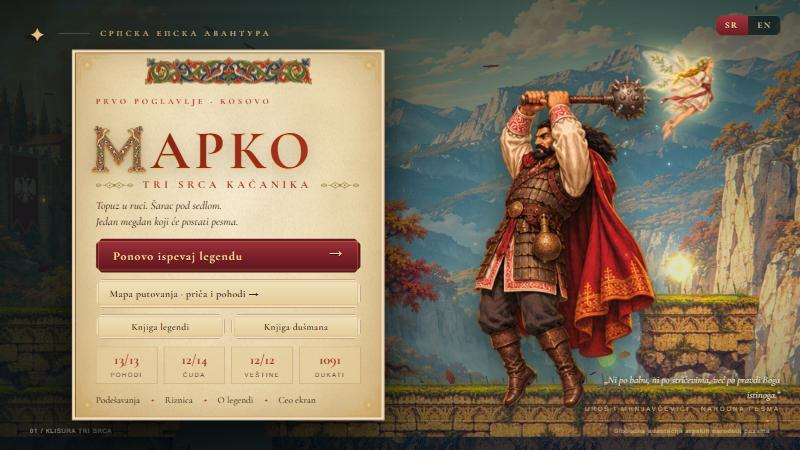
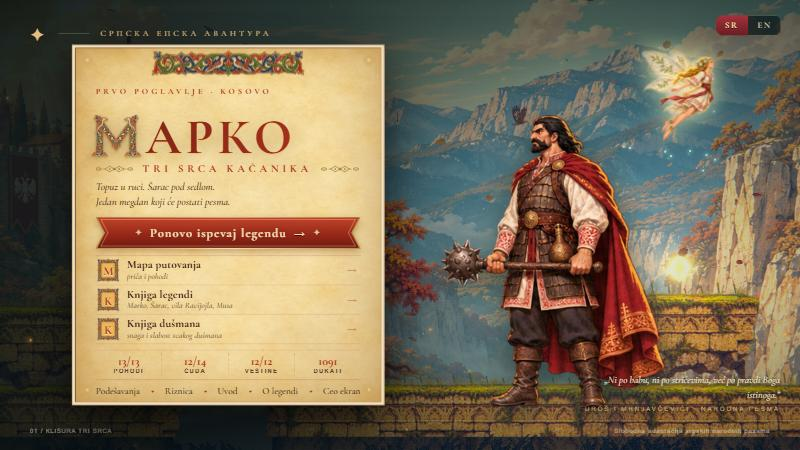
Main menu as a manuscript table of contents; an intro told with Codex's miniatures
- The main action is a cinnabar banner. The other entries are lines with an illuminated
  initial (it follows the language), the ledger is one ruled line of red figures.
- Intro: seven miniatures with a line each (Marko asleep, Musa at Kačanik, the tower by the
  sea, the sultan, the dungeon, the father's sabre, the vila at the spring), in both
  languages. Enter turns the page, Esc skips. It plays when a legend starts, and Uvod in the
  menu shows it again.

diff --git a/dist/game.js b/dist/game.js
@@ -286,9 +286,9 @@ function draw(dt=1/60){
  if(screenCtx){screenCtx.setTransform(1,0,0,1,0,0);if(assets.gorge){const drawW=W+260,drawH=drawW*1024/1536;screenCtx.drawImage(assets.gorge,-130-Math.min(1,camera/29900)*180,-80,drawW,drawH);}else{screenCtx.fillStyle='#496f6b';screenCtx.fillRect(0,0,W,H);}screenCtx.drawImage(layer,0,0,W,H);screenCtx.globalCompositeOperation='lighter';screenCtx.drawImage(glowLayer,0,0,W,H);screenCtx.globalCompositeOperation='source-over';}
 }
 function pause(){if(mode==='play'){showControls();mode='pause';$('pause-menu').hidden=false;keys.clear();}else if(mode==='pause'){hideModals();mode='play';}}
-document.addEventListener('keydown',e=>{if(['INPUT','SELECT'].includes(document.activeElement.tagName))return;if(['Space','ArrowUp','ArrowDown','ArrowLeft','ArrowRight','Tab'].includes(e.code)&&mode==='play'&&e.code!=='Tab')e.preventDefault();if(e.code==='Escape'){if(!$('knjiga').hidden){closeBook();return;}if(!$('settings').hidden){closeSettings();return;}if(mode!=='play'&&mode!=='pause'&&document.querySelector('.modal:not([hidden])')){padMenu(0,0,false,true);return;}pause();return;}if(!keys.has(e.code))pressed.add(e.code);keys.add(e.code);});document.addEventListener('keyup',e=>keys.delete(e.code));window.addEventListener('blur',()=>{keys.clear();pressed.clear();if(mode==='play')pause();});document.addEventListener('visibilitychange',()=>{if(document.hidden&&mode==='play')pause();});
+document.addEventListener('keydown',e=>{if(['INPUT','SELECT'].includes(document.activeElement.tagName))return;if(['Space','ArrowUp','ArrowDown','ArrowLeft','ArrowRight','Tab'].includes(e.code)&&mode==='play'&&e.code!=='Tab')e.preventDefault();if(e.code==='Escape'){if(!$('intro').hidden){introEnd(true);return;}if(!$('knjiga').hidden){closeBook();return;}if(!$('settings').hidden){closeSettings();return;}if(mode!=='play'&&mode!=='pause'&&document.querySelector('.modal:not([hidden])')){padMenu(0,0,false,true);return;}pause();return;}if(!keys.has(e.code))pressed.add(e.code);keys.add(e.code);});document.addEventListener('keyup',e=>keys.delete(e.code));window.addEventListener('blur',()=>{keys.clear();pressed.clear();if(mode==='play')pause();});document.addEventListener('visibilitychange',()=>{if(document.hidden&&mode==='play')pause();});
 document.querySelectorAll('[data-key]').forEach(b=>{b.addEventListener('pointerdown',e=>{e.preventDefault();b.setPointerCapture(e.pointerId);keys.add(b.dataset.key);pressed.add(b.dataset.key);});for(const ev of['pointerup','pointercancel','lostpointercapture'])b.addEventListener(ev,()=>keys.delete(b.dataset.key));});
-$('start').onclick=()=>{saveState=null;try{localStorage.removeItem('marko-save');}catch{}start();save();};$('continue').onclick=()=>start(true);$('pause').onclick=pause;$('resume').onclick=pause;$('retry').onclick=retry;$('restart-checkpoint').onclick=()=>{if(level)return startLevel(levelIndex);if(saveState)start(true);else start();};$('replay').onclick=()=>{start();save();};
+$('start').onclick=()=>playIntro(()=>{saveState=null;try{localStorage.removeItem('marko-save');}catch{}start();save();});$('continue').onclick=()=>start(true);$('pause').onclick=pause;$('resume').onclick=pause;$('retry').onclick=retry;$('restart-checkpoint').onclick=()=>{if(level)return startLevel(levelIndex);if(saveState)start(true);else start();};$('replay').onclick=()=>{start();save();};
 function mainMenu(){menuLedger();level=null;levelIndex=-1;stage?.setLevel?.(null);endSequence=null;corpses=[];mode='menu';hideModals();$('menu').hidden=false;$('hud').hidden=true;$('controls').hidden=true;$('touch').hidden=true;$('dialogue').hidden=true;$('boss-hud').hidden=true;zone=0;camera=0;keys.clear();}
 $('quit').onclick=mainMenu;$('victory-menu').onclick=mainMenu;$('sound').onclick=()=>{initAudio();audioEnabled=!audioEnabled;$('sound').textContent=audioEnabled?'♫':'♪̸';$('sound').setAttribute('aria-label',audioEnabled?'Isključi zvuk':'Uključi zvuk');};
 let settingsFrom='menu';function openSettings(from){settingsFrom=from;$('settings').hidden=false;}function closeSettings(){settings.difficulty=$('difficulty').value;readAudioSettings();settings.quality=$('quality').value;settings.reduced=$('reduced').checked;settings.gore=$('gore').checked;try{localStorage.setItem('marko-settings',JSON.stringify(settings));}catch{}$('settings').hidden=true;}
@@ -1407,13 +1407,17 @@ function menuButtons(){const c=$('continue'),s=$('start');if(!c||!s||!hasDom)ret
  c.hidden=!(story||i>=0);
  if(story){c.innerHTML='Nastavi legendu <span>→</span>';c.onclick=()=>start(true);}
  else if(i>=0){c.innerHTML=`Nastavi pohod <span>→</span><small>Pohod ${i+1} · ${LEVELS[i].name}</small>`;c.onclick=()=>startLevel(i);}
- c.className=c.hidden?'secondary':'primary';s.className=c.hidden?'primary':'secondary';
- s.innerHTML=c.hidden?(won?'Ponovo ispevaj legendu <span>→</span>':'Započni legendu <span>→</span>'):(story?'Nova legenda':'Ponovo ispevaj legendu');}
+ c.className=c.hidden?'secondary':'primary';s.className=c.hidden?'primary':'ms-item';
+ s.innerHTML=c.hidden?(won?'Ponovo ispevaj legendu <span>→</span>':'Započni legendu <span>→</span>'):`<span class="lbl">${story?'Nova legenda':'Ponovo ispevaj legendu'}</span><small>priča od početka</small>`;
+ if(!c.hidden)$('menu-pohodi')?.before?.(s);else c.after?.(s);setTimeout(menuInitials,0);}
+// each line of the menu opens with an illuminated initial: the first letter of its label, in either language
+function menuInitials(){document.querySelectorAll?.('#menu .ms-item').forEach(b=>{b.dataset.ini=(b.querySelector('.lbl')?.textContent||'').trim().charAt(0);});}
 function fairyDust(){const box=document.querySelector?.('#menu .fairy-dust');if(!box||box.childElementCount)return;let html='';for(let i=0;i<18;i++){const d=3+Math.random()*4;html+=`<i style="left:${Math.random()*100}%;top:${Math.random()*40}%;animation-duration:${d}s;animation-delay:${-Math.random()*d}s;--dx:${-20-Math.random()*60}px"></i>`;}box.innerHTML=html;}
 if(hasDom){
  $('menu-riznica')&&($('menu-riznica').onclick=openRiznica);$('menu-knjiga')&&($('menu-knjiga').onclick=()=>openBook());$('pause-knjiga')&&($('pause-knjiga').onclick=()=>openBook());
  // arrows (or W/S) move between buttons in any menu, Enter presses; in the book, left and right turn the page
  document.addEventListener('keydown',e=>{if(mode==='play')return;const tag=document.activeElement?.tagName;if(tag==='INPUT'||tag==='SELECT')return;
+  if(!$('intro').hidden){if(['Enter','Space','ArrowRight','KeyD'].includes(e.code)){e.preventDefault();introNext();}return;}
   if(!$('knjiga').hidden&&['ArrowLeft','ArrowRight','KeyA','KeyD'].includes(e.code)){e.preventDefault();bookGo(bookAt+(e.code==='ArrowLeft'||e.code==='KeyA'?-1:1));return;}
   if(['ArrowUp','ArrowDown','KeyW','KeyS'].includes(e.code)){e.preventDefault();padMenu(0,e.code==='ArrowUp'||e.code==='KeyW'?-1:1,false,false);return;}
   if(e.code==='Enter'&&document.activeElement?.tagName!=='BUTTON'){e.preventDefault();padMenu(0,0,true,false);}});
@@ -1574,3 +1578,38 @@ function flowPose(){const once=(name,t,T)=>{const n=rig[name].frames.length;retu
  if(p.recoverT>0&&Math.abs(p.vx)<80&&rig?.['marko-combo-recover'])return once('marko-combo-recover',p.recoverT,RECOVER_TIME);
  if(p.stopT>0&&Math.abs(p.vx)<150&&!p.blocking&&!p.crouching&&rig?.['marko-run-stop'])return once('marko-run-stop',p.stopT,STOP_TIME);
  return null;}
+
+// ================= the intro: Codex's miniatures tell how the song of Kačanik begins =================
+// Seven pictures, each with a line in the manner of the songs; Enter (or a click) turns to the next, Esc skips.
+// If the local voice model has read them (assets/voice/uvod-<sr|en>-N.mp3), each picture waits for its line.
+const INTRO=[
+ {img:'spava',eyebrow:'Kaže pesma…',text:'Kažu da Kraljević Marko nije umro. Spava u pećini, Šarac kraj njega jede mahovinu, a sablja mu se malo-pomalo izvlači iz stene.',kb:'50% 70%'},
+ {img:'pesma',eyebrow:'Klisura Kačanika',text:'U to vreme Musa Kesedžija zatvori drumove i primorje. Topuz baca u oblake i dočekuje ga u bele ruke, a klisurom niko ne sme da prođe.',kb:'30% 40%'},
+ {img:'svadbarina',eyebrow:'Kula kraj mora',text:'Na obali podiže kulu sa gvozdenim čengelama. Otima carevo blago, a putnike drži u ropstvu.',kb:'70% 40%'},
+ {img:'ramazan',eyebrow:'Pred sultanom',text:'Kad caru dodijaše tužbe, iz tamnice izvede jedinog junaka koga se Musa ne bi uplašio — Kraljevića Marka.',kb:'40% 50%'},
+ {img:'soko',eyebrow:'Tri godine tamnice',text:'Tri godine tamnice slomile su mu snagu. Vraćala mu se polako, kao ranjeniku pod sokolovim krilom.',kb:'60% 30%'},
+ {img:'sablja',eyebrow:'Bez vojske',text:'Car mu nudi vojsku i blago. Marko uzima samo Šarca, topuz i očevu sablju.',kb:'50% 40%'},
+ {img:'smrt',eyebrow:'Vila Ravijojla',text:'Na izvoru pod planinom javi mu se posestrima, vila Ravijojla: „Idi, brate. Ja ću biti uz tebe.” Tako počinje pesma o tri srca Kačanika.',kb:'50% 20%'},
+];
+let introAt=-1,introDone=null,introTimer=0,introVoice=null;
+function playIntro(done){if(!hasDom||settings.introOff){done?.();return;}introDone=done||null;introAt=-1;const el=$('intro');el.hidden=false;el.classList.remove('out');
+ $('intro').querySelector('.intro-dots').innerHTML=INTRO.map(()=>'<i></i>').join('');sfx('horn_call',{gain:.5});introNext();$('intro-next')?.focus?.();}
+function introNext(){clearTimeout(introTimer);introVoice?.pause();introAt++;if(introAt>=INTRO.length){introEnd(false);return;}
+ const s=INTRO[introAt],el=$('intro'),img=el.querySelector('.intro-pic img'),src=`assets/ui/minijature/minijatura-${s.img}.webp`;
+ el.querySelector('.intro-bg').style.backgroundImage=`url(${src})`;img.style.transformOrigin=s.kb;img.src=src;
+ el.querySelector('.intro-eyebrow').textContent=s.eyebrow;el.querySelector('.intro-text').textContent=s.text;
+ el.querySelectorAll('.intro-dots i').forEach((d,k)=>d.classList.toggle('on',k===introAt));
+ const stage=el.querySelector('.intro-stage');stage.classList.remove('show');void stage.offsetWidth;stage.classList.add('show');
+ if(introAt)sfx('cloth',{gain:.4,rate:1.4});
+ // with a recorded line the picture waits for it; otherwise it waits as long as reading takes
+ const lang=uiLang(),wait=Math.max(6,s.text.split(/\s+/).length*.42);introVoice=null;
+ const a=new Audio(`assets/voice/uvod-${lang}-${introAt+1}.mp3`);a.volume=audioEnabled?Math.min(1,(settings.voice??.9)*1.05):0;
+ a.addEventListener('canplaythrough',()=>{if(introVoice!==a)return;clearTimeout(introTimer);a.play().catch(()=>{});a.onended=()=>{if(introVoice===a)introTimer=setTimeout(introNext,1300);};},{once:true});
+ a.addEventListener('error',()=>{},{once:true});introVoice=a;a.load();
+ introTimer=setTimeout(()=>{if(introVoice===a&&!a.paused)return;introNext();},wait*1000+(a.readyState?0:600));}
+function introEnd(skipped){clearTimeout(introTimer);introVoice?.pause();introVoice=null;const el=$('intro');el.classList.add('out');setTimeout(()=>{el.hidden=true;el.classList.remove('out');},450);
+ const d=introDone;introDone=null;introAt=-1;if(d)d();else $('start')?.focus?.();}
+if(hasDom){$('intro-next')&&($('intro-next').onclick=introNext);$('intro-skip')&&($('intro-skip').onclick=()=>introEnd(true));
+ $('intro').addEventListener('click',e=>{if(e.target.closest('button'))return;introNext();});
+ $('intro-open')&&($('intro-open').onclick=()=>playIntro(null));
+ globalThis.markoI18n?.onLang?.(()=>setTimeout(menuInitials,0));}

diff --git a/dist/index.html b/dist/index.html
@@ -17,7 +17,7 @@
  <section id="menu" class="overlay"><div class="embers"></div><div class="fairy-dust"></div>
   <div class="lang-pick" role="group" aria-label="Jezik / Language" data-notr><button data-lang="sr" lang="sr-Latn">SR</button><button data-lang="en" lang="en">EN</button></div>
   <div class="menu-decoration"><span>✦</span><div></div><span>СРПСКА ЕПСКА АВАНТУРА</span></div>
-  <div class="menu-copy"><p class="eyebrow">PRVO POGLAVLJE · KOSOVO</p><h1><span class="ini" aria-hidden="true">М</span><span class="rest" aria-hidden="true">АРКО</span><span class="sr-only">МАРКО</span></h1><div class="subtitle"><span></span> TRI SRCA KAČANIKA <span></span></div><p class="intro">Topuz u ruci. Šarac pod sedlom.<br>Jedan megdan koji će postati pesma.</p><div class="menu-actions"><button id="continue" class="secondary" hidden>Nastavi od poslednjeg barjaka</button><button id="start" class="primary">Započni legendu <span>→</span></button><button id="menu-pohodi" class="secondary">Mapa putovanja · priča i pohodi →</button><div class="menu-pair"><button id="menu-legende" class="secondary">Knjiga legendi</button><button id="menu-knjiga" class="secondary">Knjiga dušmana</button></div></div><div id="menu-ledger"></div><div class="menu-links"><button id="settings-open">Podešavanja</button><i>✦</i><button id="menu-riznica">Riznica</button><i>✦</i><button id="lore-open">O legendi</button><i>✦</i><button id="fullscreen-menu">Ceo ekran</button></div><p class="menu-note">2D AKCIONA AVANTURA <b>·</b> TASTATURA ILI DODIR</p></div>
+  <div class="menu-copy"><p class="eyebrow">PRVO POGLAVLJE · KOSOVO</p><h1><span class="ini" aria-hidden="true">М</span><span class="rest" aria-hidden="true">АРКО</span><span class="sr-only">МАРКО</span></h1><div class="subtitle"><span></span> TRI SRCA KAČANIKA <span></span></div><p class="intro">Topuz u ruci. Šarac pod sedlom.<br>Jedan megdan koji će postati pesma.</p><div class="menu-actions"><button id="continue" class="secondary" hidden>Nastavi od poslednjeg barjaka</button><button id="start" class="primary">Započni legendu <span>→</span></button><div class="ms-list"><button id="menu-pohodi" class="ms-item"><span class="lbl">Mapa putovanja</span><small>priča i pohodi</small></button><button id="menu-legende" class="ms-item"><span class="lbl">Knjiga legendi</span><small>Marko, Šarac, vila Ravijojla, Musa</small></button><button id="menu-knjiga" class="ms-item"><span class="lbl">Knjiga dušmana</span><small>snaga i slabost svakog dušmana</small></button></div></div><div id="menu-ledger"></div><div class="menu-links"><button id="settings-open">Podešavanja</button><i>✦</i><button id="menu-riznica">Riznica</button><i>✦</i><button id="intro-open">Uvod</button><i>✦</i><button id="lore-open">O legendi</button><i>✦</i><button id="fullscreen-menu">Ceo ekran</button></div><p class="menu-note">2D AKCIONA AVANTURA <b>·</b> TASTATURA ILI DODIR</p></div>
   <img class="menu-marko" src="assets/cast/marko.png" alt="Kraljević Marko sa bodljikavim topuzom"><img class="menu-fairy" src="assets/cast/fairy.png" alt="Vila Ravijojla"><p class="quote">„Ni po babu, ni po stričevima, već po pravdi Boga istinoga.”<small>UROŠ I MRNJAVČEVIĆI · NARODNA PESMA</small></p><div class="menu-bottom"><span>01 / KLISURA TRI SRCA</span><span>Slobodna adaptacija srpskih narodnih pesama</span></div>
  </section>
  <section id="pause-menu" class="modal" hidden><div class="modal-card"><p class="eyebrow">PREDAH POD BARJAKOM</p><h2>Legenda čeka.</h2><p>Napredak se čuva kod crvenih barjaka.</p><button id="resume" class="primary">Nastavi megdan →</button><button id="restart-checkpoint" class="secondary">Vrati se do barjaka</button><button id="pause-knjiga" class="secondary">Knjiga dušmana</button><button id="pause-legende" class="secondary">Knjiga legendi</button><button id="pause-settings" class="secondary">Podešavanja</button><button id="quit" class="text-button">Glavni meni</button></div></section>
@@ -25,7 +25,7 @@
  <section id="lore" class="modal" hidden><div class="modal-card lore"><p class="eyebrow">IZ PESME U IGRU</p><h2>Junak između istorije i legende</h2><p>U ovoj slobodnoj epskoj priči osmanski odred zatvara klisuru i zarobljava putnike. Marko, Šarac i Ravijojla oslobađaju drum. Na kraju ih čeka Musa, odmetnuti gospodar prolaza.</p><p>Istorijski Marko Mrnjavčević bio je osmanski vazal. Igra spaja motive narodnih pesama, a nije rekonstrukcija istorijskog događaja. Musina tri srca, Šarčeva snaga i vilinska pomoć pripadaju epskom svetu.</p><p>Crveni barjaci sa belim dvoglavim orlom stilizovani su srednjovekovni motivi. Ravijojlin mali krilati lik i čarobni mostovi autorska su interpretacija.</p><p class="small">Izvori: <a href="https://sr.wikisource.org/sr-el/Марко_Краљевић_и_Муса_кесеџија" target="_blank" rel="noopener">Marko i Musa</a> · <a href="https://sr.wikisource.org/sr-el/Марко_Краљевић_и_вила" target="_blank" rel="noopener">Marko i vila</a> · <a href="https://www.enciklopedija.hr/clanak/kraljevic-marko" target="_blank" rel="noopener">Istorijski Marko</a></p><button id="lore-close" class="primary">Vrati se legendi</button></div></section>
  <section id="death" class="modal" hidden><div class="modal-card"><p class="eyebrow">NIJE KRAJ PESME</p><h2>Ustani, junače.</h2><p>Ravijojla te vraća do poslednjeg barjaka.</p><button id="retry" class="primary">Pokušaj ponovo →</button></div></section>
  <section id="victory" class="modal" hidden><div class="modal-card"><p class="eyebrow">PRVO POGLAVLJE ZAVRŠENO</p><h2>Drum je slobodan.</h2><p>Tri srca su utihnula. Marko spušta topuz.<br>„Teško onom ko ne poštuje dostojnog suparnika.“</p><div id="stats"></div><button id="replay" class="primary">Ponovo ispevaj legendu →</button><button id="victory-next" class="secondary">Sledeći pohod: Kosovsko selo →</button><button id="victory-menu" class="text-button">Glavni meni</button></div></section>
- <section id="levels" class="modal" hidden><div class="modal-card lore"><p class="eyebrow">MARKOVO PUTOVANJE</p><h2>Mapa</h2><div id="level-variants" class="variant-pick" role="group" aria-label="Deo puta i doba"></div><p id="levels-order" class="order-note"></p><div id="level-list" class="level-list"></div><button id="riznica-open" class="secondary">Riznica čuda i kovač</button><button id="levels-close" class="text-button">Nazad</button></div></section><section id="riznica" class="modal" hidden><div class="modal-card lore"><p class="eyebrow">MARKOVA RIZNICA</p><h2>Čuda iz pesama</h2><p>U svakom pohodu skriveno je jedno čudo, najčešće visoko: na kuli, u dimnjaku između zidova ili na daskama iznad puta. Svako čudo zauvek jača Marka.</p><div id="cuda-grid" class="cuda-grid"></div><h3>Srce i zapisi</h3><p id="srca">Delovi srca: 0</p><div id="zapisi" class="vestine"></div><h3>Veštine</h3><div id="vestine" class="vestine"></div><h3>Kombinacije</h3><div id="kombinacije" class="kombinacije"></div><h3>Knjiga dušmana</h3><div id="dusmani" class="dusmani-row"></div><h3>Kovač</h3><p id="purse">Dukati: 0</p><div id="smith" class="smith"></div><button id="riznica-close" class="text-button">Nazad</button></div></section><section id="level-done" class="modal" hidden><div class="modal-card"><p class="eyebrow">POHOD ZAVRŠEN</p><h2 id="level-done-title"></h2><div id="level-stars"></div><div id="level-skill" class="skill-card" hidden></div><div id="level-stats"></div><button id="level-next" class="primary">Sledeći pohod →</button><button id="level-replay" class="secondary">Ponovi pohod</button><button id="level-menu" class="text-button">Glavni meni</button></div></section><section id="knjiga" class="modal" hidden><div class="book-wrap">
+ <section id="levels" class="modal" hidden><div class="modal-card lore"><p class="eyebrow">MARKOVO PUTOVANJE</p><h2>Mapa</h2><div id="level-variants" class="variant-pick" role="group" aria-label="Deo puta i doba"></div><p id="levels-order" class="order-note"></p><div id="level-list" class="level-list"></div><button id="riznica-open" class="secondary">Riznica čuda i kovač</button><button id="levels-close" class="text-button">Nazad</button></div></section><section id="riznica" class="modal" hidden><div class="modal-card lore"><p class="eyebrow">MARKOVA RIZNICA</p><h2>Čuda iz pesama</h2><p>U svakom pohodu skriveno je jedno čudo, najčešće visoko: na kuli, u dimnjaku između zidova ili na daskama iznad puta. Svako čudo zauvek jača Marka.</p><div id="cuda-grid" class="cuda-grid"></div><h3>Srce i zapisi</h3><p id="srca">Delovi srca: 0</p><div id="zapisi" class="vestine"></div><h3>Veštine</h3><div id="vestine" class="vestine"></div><h3>Kombinacije</h3><div id="kombinacije" class="kombinacije"></div><h3>Knjiga dušmana</h3><div id="dusmani" class="dusmani-row"></div><h3>Kovač</h3><p id="purse">Dukati: 0</p><div id="smith" class="smith"></div><button id="riznica-close" class="text-button">Nazad</button></div></section><section id="level-done" class="modal" hidden><div class="modal-card"><p class="eyebrow">POHOD ZAVRŠEN</p><h2 id="level-done-title"></h2><div id="level-stars"></div><div id="level-skill" class="skill-card" hidden></div><div id="level-stats"></div><button id="level-next" class="primary">Sledeći pohod →</button><button id="level-replay" class="secondary">Ponovi pohod</button><button id="level-menu" class="text-button">Glavni meni</button></div></section><section id="intro" hidden aria-live="polite"><div class="intro-bg"></div><div class="intro-stage"><figure class="intro-pic"><img alt=""></figure><div class="intro-card"><div class="zastavica" aria-hidden="true"></div><p class="intro-eyebrow"></p><p class="intro-text"></p></div></div><div class="intro-foot"><span class="intro-dots"></span><button id="intro-next" class="text-button">Dalje · Enter</button><button id="intro-skip" class="text-button">Preskoči uvod · Esc</button></div></section><section id="knjiga" class="modal" hidden><div class="book-wrap">
   <div class="book" id="book"><div class="page left" id="book-left"></div><div class="page right" id="book-right"></div><div class="spine"></div></div>
   <nav class="book-nav"><button id="book-prev" class="book-arrow" aria-label="Prethodna stranica">‹</button><div id="book-tabs" class="book-tabs"></div><button id="book-next" class="book-arrow" aria-label="Sledeća stranica">›</button></nav>
   <button id="book-close" class="text-button">Zatvori knjigu</button></div></section><div id="loading">Pripremamo legendu…</div>

diff --git a/dist/ui.css b/dist/ui.css
@@ -375,3 +375,76 @@
 .ms-birds img{width:74px;height:74px;object-fit:contain;filter:drop-shadow(0 1px 1px #5a3a1a55)}
 #menu-legende::before,#menu-knjiga::before{content:"";display:inline-block;width:20px;height:25px;margin:-8px 8px -6px 0;vertical-align:middle;background:url(assets/ui/rukopis-inicijal-k.webp) center/contain no-repeat}
 .book-tabs .tab.pic.song img{object-fit:contain;padding:6px}
+
+/* ================= main menu, second pass: a banner for the main action, a table of contents for the rest ================= */
+#menu .menu-actions .primary{position:relative;display:flex;align-items:center;justify-content:center;gap:12px;width:100%;margin:2px 0 0;padding:15px 34px 14px;border:0;clip-path:none;box-shadow:none;text-align:center;
+ background:url(assets/ui/barjak.svg) center/100% 100% no-repeat;color:#fbe7b5;font:700 20px/1.15 var(--display);letter-spacing:1.6px;text-shadow:0 1px 0 #4a0e08,0 0 10px #0004;filter:drop-shadow(0 4px 6px #5a1a0a55);transition:transform .25s,filter .25s}
+#menu .menu-actions .primary::before,#menu .menu-actions .primary::after{content:"✦";position:static;inset:auto;background:none;transform:none;animation:none;font-size:12px;color:#f3dca0;opacity:.85}
+#menu .menu-actions .primary span{float:none;margin:0;font-size:18px;line-height:1;color:#f3dca0;transition:transform .25s}
+#menu .menu-actions .primary small{display:block;width:100%;margin-top:2px;font:italic 600 14px var(--display);letter-spacing:.4px;color:#f6dca8;opacity:.95}
+#menu .menu-actions #continue.primary{flex-wrap:wrap;row-gap:0;padding:12px 34px 11px}
+#menu .menu-actions .primary:hover,#menu .menu-actions .primary:focus-visible,#menu .menu-actions .primary.pad-focus{transform:translateY(-1px) scale(1.012);filter:drop-shadow(0 6px 12px #5a1a0a77) brightness(1.1);outline:none}
+#menu .menu-actions .primary:hover span,#menu .menu-actions .primary:focus-visible span{transform:translateX(4px)}
+.ms-list{display:flex;flex-direction:column;margin:12px 0 0;border-top:1px solid #a8321f40}
+#menu .ms-item{position:relative;display:grid;grid-template-columns:42px 1fr 18px;grid-template-rows:auto auto;column-gap:12px;align-items:center;width:100%;min-width:0;margin:0;padding:7px 4px 7px 2px;
+ background:none;border:0;border-bottom:1px solid #a8321f2e;border-radius:0;box-shadow:none;clip-path:none;text-align:left;color:var(--ms-ink);transition:background .25s}
+#menu .ms-item::before{content:attr(data-ini);grid-row:1/3;grid-column:1;display:grid;place-items:center;width:42px;height:42px;padding-top:2px;
+ background:url(assets/ui/rukopis-okvir-inicijala.webp) center/100% 100% no-repeat;font:700 22px/1 var(--display);color:var(--cinnabar);text-shadow:0 1px 0 #f3dca0;transition:transform .3s}
+#menu .ms-item::after{content:"→";grid-row:1/3;grid-column:3;color:var(--cinnabar);font-size:16px;opacity:.35;transition:opacity .25s,transform .25s}
+#menu .ms-item .lbl{grid-column:2;font:700 18.5px/1.15 var(--display);color:#3a1a10;letter-spacing:.3px}
+#menu .ms-item small{grid-column:2;font:italic 500 14px/1.25 var(--display);color:#6a4a2a;white-space:nowrap;overflow:hidden;text-overflow:ellipsis}
+#menu .ms-item:hover,#menu .ms-item:focus-visible,#menu .ms-item.pad-focus{background:linear-gradient(90deg,#c8a24a33,#c8a24a10 70%,#0000);outline:none;transform:none}
+#menu .ms-item:hover::before,#menu .ms-item:focus-visible::before,#menu .ms-item.pad-focus::before{transform:rotate(-4deg) scale(1.08)}
+#menu .ms-item:hover::after,#menu .ms-item:focus-visible::after,#menu .ms-item.pad-focus::after{opacity:1;transform:translateX(3px)}
+#menu .ms-item:hover .lbl,#menu .ms-item:focus-visible .lbl,#menu .ms-item.pad-focus .lbl{color:var(--cinnabar)}
+#menu-legende::before,#menu-knjiga::before{margin:0}
+/* the ledger: one ruled line of red figures */
+#menu-ledger{display:flex;gap:0;margin:12px 0 0;padding:5px 0;border-top:1px solid #a8321f40;border-bottom:1px solid #a8321f40}
+#menu-ledger button{flex:1;display:flex;flex-direction:column;align-items:center;background:none!important;box-shadow:none!important;border:0;border-left:1px dotted #a8321f40;padding:2px 2px;transform:none!important}
+#menu-ledger button:first-child{border-left:0}
+#menu-ledger button b{font:700 19px/1.1 var(--display);color:var(--cinnabar)}
+#menu-ledger button small{font:600 9.5px Arial;letter-spacing:1.8px;color:#5a4030}
+#menu-ledger button:hover b,#menu-ledger button:focus-visible b{text-decoration:underline;text-decoration-color:#a8321f66}
+#menu .menu-links{margin:12px 0 2px}
+
+/* ================= the intro ================= */
+#intro{position:absolute;inset:0;z-index:30;display:grid;grid-template-rows:1fr auto;background:#070605;overflow:hidden;opacity:1;transition:opacity .45s}
+#intro.out{opacity:0}
+#intro .intro-bg{position:absolute;inset:-60px;background:#000 center/cover;filter:blur(28px) brightness(.32) saturate(1.2);transition:background-image .6s}
+#intro .intro-stage{position:relative;display:grid;grid-template-columns:auto minmax(280px,440px);align-items:center;justify-content:center;gap:clamp(20px,4vw,56px);padding:clamp(16px,4vh,48px) 24px 0}
+#intro .intro-pic{margin:0;width:min(62vh,560px,48vw);aspect-ratio:1;padding:2.8%;background:url(assets/ui/rukopis-okvir-inicijala.webp) center/100% 100% no-repeat;filter:drop-shadow(0 20px 40px #000c)}
+#intro .intro-pic img{display:block;width:100%;height:100%;object-fit:cover;padding:7.5%;transform-origin:50% 50%}
+#intro .intro-card{position:relative;padding:20px 28px 24px;background:radial-gradient(ellipse at 50% 40%,#0000 50%,#7a4a1a40 100%),url(assets/ui/rukopis-pergament.webp) center/cover;box-shadow:0 20px 50px #000b,inset 0 0 0 1px #6a3a1a66,inset 0 0 0 5px #f1e2bd,inset 0 0 0 6px #a8321f55;color:var(--ms-ink)}
+#intro .intro-card .zastavica{height:40px;margin:-6px 0 6px}
+#intro .intro-eyebrow{margin:0 0 8px;text-align:center;font:700 12px Arial;letter-spacing:3px;text-transform:uppercase;color:var(--cinnabar)}
+#intro .intro-text{margin:0;font:500 clamp(18px,2.1vw,23px)/1.5 var(--display);color:var(--ms-ink)}
+#intro .intro-text::first-letter{float:left;font:700 50px/1 var(--display);color:var(--cinnabar);padding:.22em .3em .12em;margin:4px 10px 0 0;background:url(assets/ui/rukopis-okvir-inicijala.webp) center/100% 100% no-repeat}
+#intro .intro-stage.show .intro-pic img{animation:kenBurns 11s ease-out both}
+#intro .intro-stage.show .intro-pic{animation:picIn .9s cubic-bezier(.2,.8,.2,1) both}
+#intro .intro-stage.show .intro-card{animation:cardIn 1s .25s cubic-bezier(.2,.8,.2,1) both}
+@keyframes kenBurns{from{transform:scale(1)}to{transform:scale(1.14)}}
+@keyframes picIn{from{opacity:0;transform:scale(.96)}}
+@keyframes cardIn{from{opacity:0;transform:translateY(16px)}}
+#intro .intro-foot{position:relative;display:flex;align-items:center;justify-content:center;gap:28px;padding:14px 20px 22px}
+#intro .intro-dots{display:flex;gap:8px}
+#intro .intro-dots i{width:8px;height:8px;border-radius:50%;background:#f3dca033;box-shadow:inset 0 0 0 1px #f3dca088;transition:background .3s,transform .3s}
+#intro .intro-dots i.on{background:#e7c46a;transform:scale(1.3)}
+#intro .text-button{color:#e9d7ad!important}
+@media(max-width:820px){#intro .intro-stage{grid-template-columns:1fr;justify-items:center;gap:14px}#intro .intro-pic{width:min(44vh,82vw)}#intro .intro-card{max-width:560px}}
+@media(prefers-reduced-motion:reduce){#intro .intro-stage.show .intro-pic img{animation:none}}
+/* the panel fits a 720p screen with the table of contents */
+#menu .menu-copy{top:50%;padding-top:54px!important;padding-bottom:14px}
+#menu .menu-copy::before{top:9px;height:42px}
+#menu .menu-copy h1{--hs:80px;font-size:80px;margin:0 0 2px}
+#menu .intro{font-size:17px;margin:6px 0 10px}
+#menu .ms-item{grid-template-columns:36px 1fr 18px;padding:4px 4px 4px 2px}
+#menu .ms-item::before{width:36px;height:36px;font-size:19px}
+#menu .ms-item .lbl{font-size:18px}
+#menu .ms-item small{font-size:13.5px}
+.ms-list{margin-top:10px}
+#menu-ledger{margin-top:9px}
+#menu .menu-links{margin:9px 0 0}
+@media(max-height:690px){#menu .menu-copy h1{--hs:70px;font-size:70px}#menu .ms-item small{display:none}}
+#intro .intro-pic{width:min(70vh,620px,52vw);padding:0}
+#intro .intro-pic img{padding:0;margin:16.5%;width:67%;height:67%;box-shadow:0 0 0 1px #3a1a0a88}
+#intro .intro-foot>*{flex:none;width:auto!important;margin:0!important}

diff --git a/dist/i18n.js b/dist/i18n.js
@@ -409,6 +409,16 @@ const EN_PAIRS=[
 ["Dušmani koje je Marko sreo na drumu: snaga, slabost i broj savladanih.","The foes Marko has met on the road: their strength, their weakness and how many he has defeated."],
 ["Otvori knjigu dušmana","Open the Book of Foes"],
 ["Nijedan","None"],
+["priča od početka","the story from the start"],["Marko, Šarac, vila Ravijojla, Musa","Marko, Šarac, the vila Ravijojla, Musa"],["snaga i slabost svakog dušmana","the strength and weakness of every foe"],
+["Uvod","Intro"],["Dalje · Enter","Next · Enter"],["Preskoči uvod · Esc","Skip the intro · Esc"],
+["Kaže pesma…","So the song goes…"],["Klisura Kačanika","The Kačanik Gorge"],["Kula kraj mora","A tower by the sea"],["Pred sultanom","Before the sultan"],["Tri godine tamnice","Three years in the dungeon"],["Bez vojske","Without an army"],
+["Kažu da Kraljević Marko nije umro. Spava u pećini, Šarac kraj njega jede mahovinu, a sablja mu se malo-pomalo izvlači iz stene.","They say Prince Marko never died. He sleeps in a cave, Šarac grazes on moss beside him, and his sabre is slowly working its way out of the rock."],
+["U to vreme Musa Kesedžija zatvori drumove i primorje. Topuz baca u oblake i dočekuje ga u bele ruke, a klisurom niko ne sme da prođe.","In those days Musa Kesedžija closed the roads and the coast. He tosses his mace into the clouds and catches it in his white hands, and no one dares to pass through the gorge."],
+["Na obali podiže kulu sa gvozdenim čengelama. Otima carevo blago, a putnike drži u ropstvu.","On the coast he raises a tower hung with iron hooks. He seizes the sultan's treasure and holds travelers captive."],
+["Kad caru dodijaše tužbe, iz tamnice izvede jedinog junaka koga se Musa ne bi uplašio — Kraljevića Marka.","When the sultan tired of the complaints, he brought out of the dungeon the one hero Musa would not scare — Prince Marko."],
+["Tri godine tamnice slomile su mu snagu. Vraćala mu se polako, kao ranjeniku pod sokolovim krilom.","Three years in the dungeon had broken his strength. It came back slowly, like a wounded man's under a falcon's wing."],
+["Car mu nudi vojsku i blago. Marko uzima samo Šarca, topuz i očevu sablju.","The sultan offers him an army and treasure. Marko takes only Šarac, his mace and his father's sabre."],
+["Na izvoru pod planinom javi mu se posestrima, vila Ravijojla: „Idi, brate. Ja ću biti uz tebe.” Tako počinje pesma o tri srca Kačanika.","At a spring below the mountain his sworn sister, the vila Ravijojla, appears to him: “Go, brother. I will be at your side.” So begins the song of the three hearts of Kačanik."],
 ["Knjiga legendi","Book of Legends"],["KNJIGA LEGENDI","BOOK OF LEGENDS"],["PESMA","SONG"],["SRPSKI","SERBIAN"],["ENGLISH","ENGLISH"],
 ["Čitaj na srpskom","Read in Serbian"],["Čitaj na engleskom","Read in English"],["Čitanje pesme još nije spremno.","The reading of the song is not ready yet."],
 // ---- lore scrolls ----
